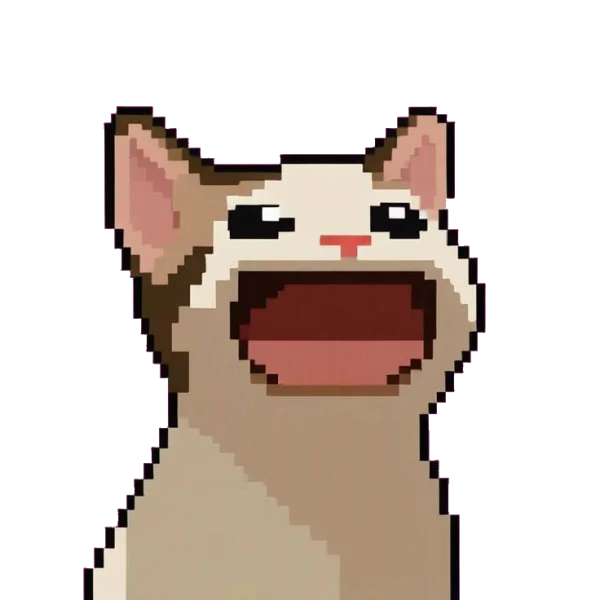
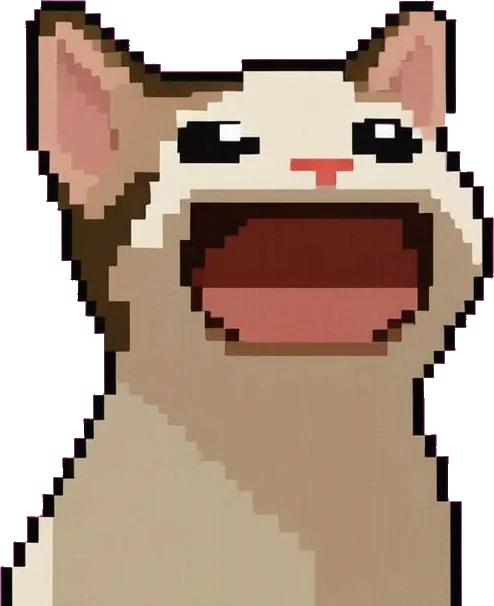
fix: editorial header, readable accent font, snug footer cat
- Replace header pills with a four-column row of tiny type on the page
  grid (wordmark, about line, links, contact) over a soft ink fade
- Swap the Italianno script for Instrument Serif italic (--font-accent);
  resize every accent line for readability
- Crop the cat art to its bounds so it sits in the dashed corner

diff --git a/app/components/layout/SiteHeader.vue b/app/components/layout/SiteHeader.vue
@@ -1,28 +1,36 @@
 <script setup lang="ts">
 /**
- * Floating header: two small glass pills over the page, no bar.
- * Desktop: logo pill · nav pill. Mobile: logo pill · menu pill.
+ * Editorial top row, no chrome: four columns of tiny type on the page grid.
+ *   wordmark · who we are · primary links · contact
+ * A soft ink fade sits behind it so it stays legible over scrolling content.
+ * Phones: wordmark · Menu.
  */
+import { CONTACT_NAV } from '~/constants/site'
+
 const menuOpen = ref(false)
 const menuButton = ref<HTMLButtonElement | null>(null)
 </script>
 
 <template>
   <header class="header">
-    <div class="pill pill--logo">
+    <AppContainer class="header__row">
       <SiteLogo />
-    </div>
-    <SiteNav class="pill header__nav" />
-    <button
-      ref="menuButton"
-      type="button"
-      class="pill header__menu"
-      aria-controls="site-menu"
-      :aria-expanded="menuOpen"
-      @click="menuOpen = true"
-    >
-      Menu
-    </button>
+      <p class="header__about">Apps for people<br>tools for developers</p>
+      <SiteNav class="header__nav" />
+      <NuxtLink v-sound="'tick'" :to="CONTACT_NAV.to" class="header__contact">
+        {{ CONTACT_NAV.label }} <span aria-hidden="true">↗</span>
+      </NuxtLink>
+      <button
+        ref="menuButton"
+        type="button"
+        class="header__menu"
+        aria-controls="site-menu"
+        :aria-expanded="menuOpen"
+        @click="menuOpen = true"
+      >
+        Menu
+      </button>
+    </AppContainer>
     <SiteMenu v-model:open="menuOpen" @closed="menuButton?.focus()" />
   </header>
 </template>
@@ -30,51 +38,89 @@ const menuButton = ref<HTMLButtonElement | null>(null)
 <style scoped>
 .header {
   position: fixed;
-  inset: var(--space-4) var(--gutter) auto;
+  inset: 0 0 auto;
   z-index: var(--z-header);
-  display: flex;
-  align-items: center;
-  justify-content: space-between;
+  padding-block: var(--space-4) var(--space-12);
+  /* Solid behind the text, then a short fade so content slips underneath. */
+  background: linear-gradient(
+    to bottom,
+    var(--surface-page) 0%,
+    var(--surface-page) 52%,
+    transparent 100%
+  );
   pointer-events: none;
 }
 
-.pill {
-  pointer-events: auto;
-  display: inline-flex;
+.header__row {
+  display: flex;
   align-items: center;
-  height: 44px;
-  padding: 0 var(--space-2);
-  border: 1px solid var(--line);
-  border-radius: var(--radius-full);
-  background: color-mix(in srgb, var(--ink-900) 62%, transparent);
-  backdrop-filter: blur(8px);
-  -webkit-backdrop-filter: blur(8px);
+  justify-content: space-between;
+  gap: var(--space-6);
 }
 
-.pill--logo {
-  padding: 0 var(--space-4) 0 var(--space-3);
+.header__row > * {
+  pointer-events: auto;
+}
+
+.header__about,
+.header__contact,
+.header__menu {
+  font-size: var(--text-ui);
+  line-height: 1.5;
+  letter-spacing: var(--tracking-ui);
+  text-transform: uppercase;
+}
+
+.header__about {
+  display: none;
+  color: var(--text-muted);
 }
 
 .header__nav {
   display: none;
 }
 
-.header__menu {
-  padding: 0 var(--space-4);
-  font-size: var(--text-ui);
-  letter-spacing: var(--tracking-ui);
-  text-transform: uppercase;
+.header__contact {
+  display: none;
+  min-height: 40px;
+  align-items: center;
+  gap: var(--space-1);
   color: var(--text-primary);
-  transition: transform var(--dur-press) var(--ease-out);
+  transition: color var(--dur-hover) var(--ease-out);
 }
 
-.header__menu:active {
-  transform: scale(0.96);
+.header__contact:hover,
+.header__contact.router-link-active {
+  color: var(--accent);
 }
 
+.header__menu {
+  min-height: 44px;
+  padding-left: var(--space-4);
+  color: var(--text-primary);
+}
+
+/* Desktop: the four columns line up with the 3 / 3 / 4 / 2 page grid. */
 @media (min-width: 900px) {
+  .header__row {
+    display: grid;
+    grid-template-columns: 3fr 3fr 4fr 2fr;
+    align-items: start;
+    gap: var(--space-8);
+  }
+
+  .header__about {
+    display: block;
+  }
+
   .header__nav {
+    display: block;
+    margin-left: calc(var(--space-3) * -1);
+  }
+
+  .header__contact {
     display: inline-flex;
+    justify-self: end;
   }
 
   .header__menu {

diff --git a/app/components/layout/SiteNav.vue b/app/components/layout/SiteNav.vue
@@ -1,14 +1,12 @@
 <script setup lang="ts">
-/** Primary navigation as tiny editorial links. The current page carries a lavender dot. */
-import { CONTACT_NAV, PRIMARY_NAV } from '~/constants/site'
-
-const items = [...PRIMARY_NAV, CONTACT_NAV]
+/** Primary navigation as tiny editorial links. The current page carries a lavender square. */
+import { PRIMARY_NAV } from '~/constants/site'
 </script>
 
 <template>
   <nav class="nav" aria-label="Primary">
     <ul class="nav__list" role="list">
-      <li v-for="item in items" :key="item.to">
+      <li v-for="item in PRIMARY_NAV" :key="item.to">
         <NuxtLink v-sound="'tick'" :to="item.to" class="nav__link">{{ item.label }}</NuxtLink>
       </li>
     </ul>
@@ -18,11 +16,11 @@ const items = [...PRIMARY_NAV, CONTACT_NAV]
 <style scoped>
 .nav__list {
   display: flex;
+  flex-wrap: wrap;
   align-items: center;
 }
 
 .nav__link {
-  position: relative;
   display: inline-flex;
   align-items: center;
   gap: var(--space-2);
@@ -35,6 +33,7 @@ const items = [...PRIMARY_NAV, CONTACT_NAV]
   transition: color var(--dur-hover) var(--ease-out);
 }
 
+/* Square marker: grows in for the active page, peeks in on hover. */
 .nav__link::before {
   content: '';
   width: 5px;
@@ -46,6 +45,10 @@ const items = [...PRIMARY_NAV, CONTACT_NAV]
 
 .nav__link:hover {
   color: var(--text-primary);
+}
+
+.nav__link:hover::before {
+  transform: scale(0.6);
 }
 
 .nav__link.router-link-active {

diff --git a/app/components/home/SpecimenField.vue b/app/components/home/SpecimenField.vue
@@ -121,11 +121,12 @@ onBeforeUnmount(() => cancelAnimationFrame(frame))
   left: 50%;
   top: 50%;
   z-index: -2;
-  font-family: var(--font-script);
-  font-size: clamp(14rem, 38vw, 40rem);
+  font-family: var(--font-accent);
+  font-style: italic;
+  font-size: clamp(10rem, 30vw, 32rem);
   line-height: 1;
   color: var(--accent);
-  opacity: 0.045;
+  opacity: 0.03;
   transform: translate(-50%, -54%) rotate(-8deg);
   pointer-events: none;
   user-select: none;
@@ -196,8 +197,9 @@ onBeforeUnmount(() => cancelAnimationFrame(frame))
 .field__script {
   display: block;
   margin-top: var(--space-1);
-  font-family: var(--font-script);
-  font-size: 2.5rem;
+  font-family: var(--font-accent);
+  font-style: italic;
+  font-size: 1.875rem;
   font-weight: 400;
   line-height: 1;
   letter-spacing: 0;

diff --git a/app/components/layout/FooterCat.vue b/app/components/layout/FooterCat.vue
@@ -4,7 +4,7 @@
 
 <template>
   <div class="cat">
-    <DitherImage class="cat__image" src="/art/cat.webp" alt="A pixel cat with its mouth wide open" aspect="1 / 1" fit="contain" />
+    <DitherImage class="cat__image" src="/art/cat.webp" alt="A pixel cat with its mouth wide open" aspect="494 / 606" fit="contain" />
     <span class="cat__corner" aria-hidden="true" />
   </div>
 </template>
@@ -14,7 +14,8 @@
   position: relative;
   width: 100%;
   max-width: 15rem;
-  padding: 0 0 0 var(--space-4);
+  /* The art is cropped to the cat, so it sits right on the dashed baseline. */
+  padding: var(--space-6) var(--space-8) 0 var(--space-3);
   border-left: 2px dashed var(--text-primary);
   border-bottom: 2px dashed var(--text-primary);
 }

diff --git a/app/assets/css/tokens.css b/app/assets/css/tokens.css
@@ -45,7 +45,8 @@
   /* ── Type ──────────────────────────────────────── */
   --font-display: 'VT323', ui-monospace, monospace;
   --font-body: 'IBM Plex Mono', ui-monospace, 'SFMono-Regular', Menlo, monospace;
-  --font-script: 'Italianno', cursive;
+  /* Accent voice: lavender italic lines (taglines, quotes). Always set italic. */
+  --font-accent: 'Instrument Serif', Georgia, 'Times New Roman', serif;
 
   /* Fluid display sizes: phone → desktop. VT323 reads small, so it runs large. */
   --text-hero: clamp(2.5rem, 1rem + 7.5vw, 7.5rem);

diff --git a/nuxt.config.ts b/nuxt.config.ts
@@ -2,7 +2,7 @@
 import { SITE } from './app/constants/site'
 
 const FONT_STYLESHEET =
-  'https://fonts.googleapis.com/css2?family=IBM+Plex+Mono:ital,wght@0,400;0,500;0,600;1,400&family=Italianno&family=VT323&display=swap'
+  'https://fonts.googleapis.com/css2?family=IBM+Plex+Mono:ital,wght@0,400;0,500;0,600;1,400&family=Instrument+Serif:ital@0;1&family=VT323&display=swap'
 
 /** Old URLs from the previous site, kept alive so links and search results never 404. */
 const LEGACY_REDIRECTS = {

diff --git a/app/components/article/ProseContent.vue b/app/components/article/ProseContent.vue
@@ -108,9 +108,10 @@ defineProps<{ value: ProductsCollectionItem | WritingCollectionItem }>()
   padding-left: var(--space-6);
   border-left: 2px solid var(--accent);
   color: var(--accent);
-  font-family: var(--font-script);
-  font-size: 2.25rem;
-  line-height: 1.1;
+  font-family: var(--font-accent);
+  font-style: italic;
+  font-size: 1.75rem;
+  line-height: 1.25;
 }
 
 .prose :deep(hr) {

diff --git a/app/components/product/ProductAside.vue b/app/components/product/ProductAside.vue
@@ -51,8 +51,9 @@ const meta = computed(() => productMeta(props.product))
 
 .aside__tagline {
   margin-top: calc(var(--space-2) * -1);
-  font-family: var(--font-script);
-  font-size: clamp(2.25rem, 1.8rem + 1.4vw, 3rem);
+  font-family: var(--font-accent);
+  font-style: italic;
+  font-size: clamp(1.75rem, 1.4rem + 1vw, 2.25rem);
   line-height: 1;
   color: var(--accent);
 }

diff --git a/app/pages/writing/[slug].vue b/app/pages/writing/[slug].vue
@@ -56,9 +56,10 @@ useSchemaOrg([
   max-width: var(--measure);
   padding-bottom: var(--space-6);
   border-bottom: 1px solid var(--line);
-  font-family: var(--font-script);
-  font-size: 2rem;
-  line-height: 1.1;
+  font-family: var(--font-accent);
+  font-style: italic;
+  font-size: 1.5rem;
+  line-height: 1.3;
   color: var(--accent);
 }
 

diff --git a/app/components/product/ProductIndexRow.vue b/app/components/product/ProductIndexRow.vue
@@ -82,9 +82,10 @@ const counter = computed(() => `${String(props.index).padStart(2, '0')} / ${Stri
 }
 
 .item__tagline {
-  font-family: var(--font-script);
-  font-size: 2rem;
-  line-height: 1;
+  font-family: var(--font-accent);
+  font-style: italic;
+  font-size: 1.5rem;
+  line-height: 1.15;
   color: var(--accent);
 }
 

diff --git a/app/pages/about.vue b/app/pages/about.vue
@@ -61,8 +61,9 @@ usePageSeo({
 }
 
 .why__quote {
-  font-family: var(--font-script);
-  font-size: clamp(2.5rem, 2rem + 2.4vw, 4.5rem);
+  font-family: var(--font-accent);
+  font-style: italic;
+  font-size: clamp(2rem, 1.6rem + 1.8vw, 3.25rem);
   line-height: 1;
   color: var(--accent);
 }

diff --git a/AGENTS.md b/AGENTS.md
@@ -230,7 +230,7 @@ app/components/
 Visual system (keep it consistent):
 
 * **60 / 30 / 10 colour:** ink backgrounds (60), lavender accent (30) for buttons, labels, art, script type and the footer band, paper text (10). Lavender is never the default page background. Section tones switch via `data-tone="raised" | "accent"`.
-* **Type:** VT323 for names and titles, IBM Plex Mono for body, tiny uppercase mono (`--text-ui`) for labels/nav/meta, Italianno only for lavender script accents.
+* **Type:** VT323 for names and titles, IBM Plex Mono for body, tiny uppercase mono (`--text-ui`) for labels/nav/meta, Instrument Serif italic (`--font-accent`) only for lavender accent lines; script fonts were rejected as unreadable.
 * **Inner pages are editorial:** compose `PageIntro` + `EditorialRow`s. No cards, no boxed sections; hairlines and space create structure.
 * **Art is always dithered** through `DitherImage`; use `knockout` when art floats over a background.
 
